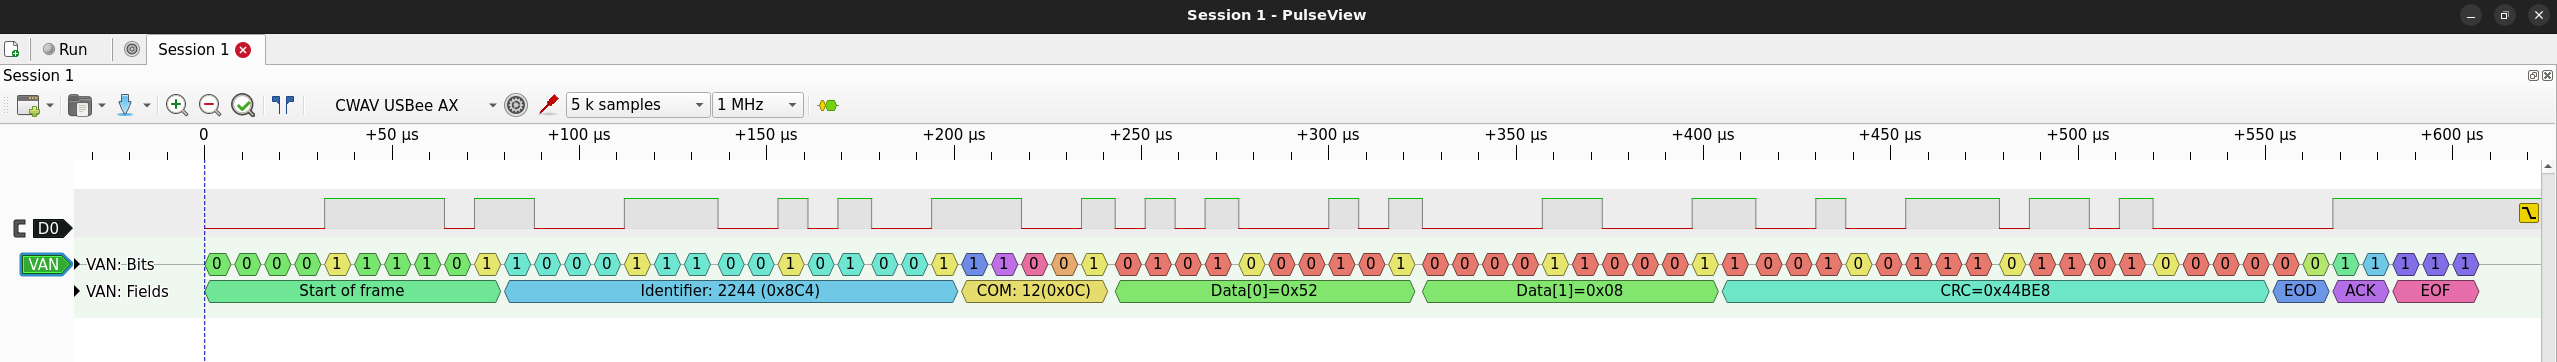
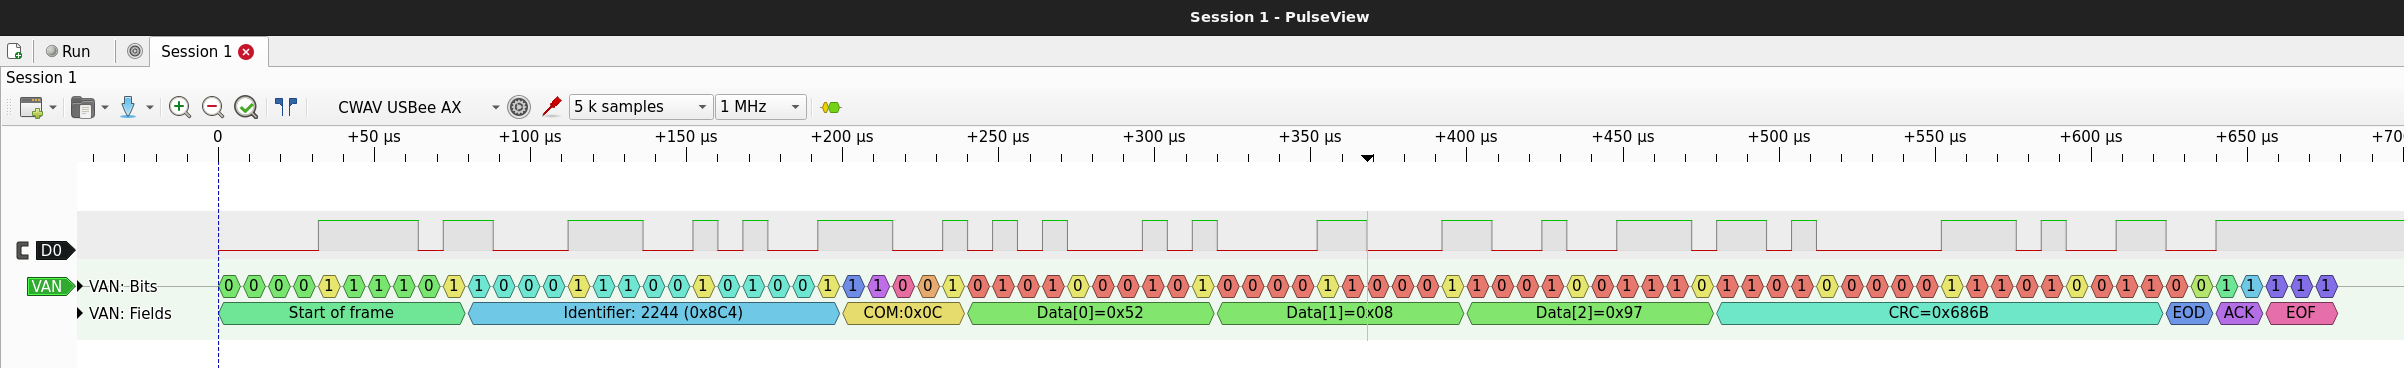
修正CRC计算错误，t同时更新example.png

diff --git a/pd.py b/pd.py
@@ -182,7 +182,7 @@ class Decoder(srd.Decoder):
 				(begin,_,_) = self.bit_groups[-4]
 				(_,end,_) = self.bit_groups[-1]
 				end -= 2*int(self.bit_width)
-				crc = int(''.join(str(d) for d in self.bits[-23:-1]), 2)
+				crc = int(''.join(str(d) for d in self.bits[-16:-1]), 2)
 				self.putg(begin, end, [7, ['CRC=0x%04X' % crc, 'C=0x%04x' % crc, 'C']])
 
 			elif i == groups - 1:
